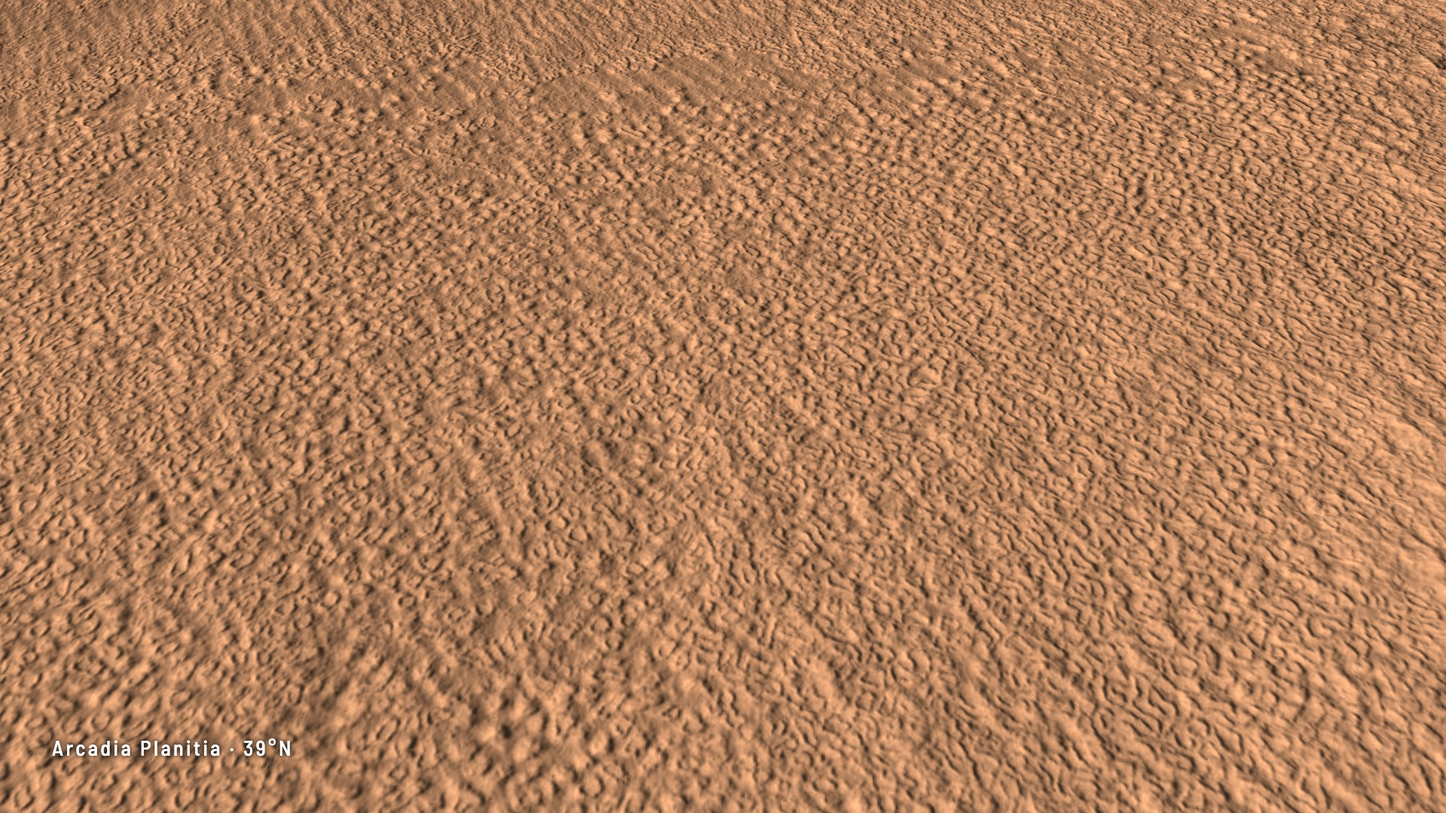
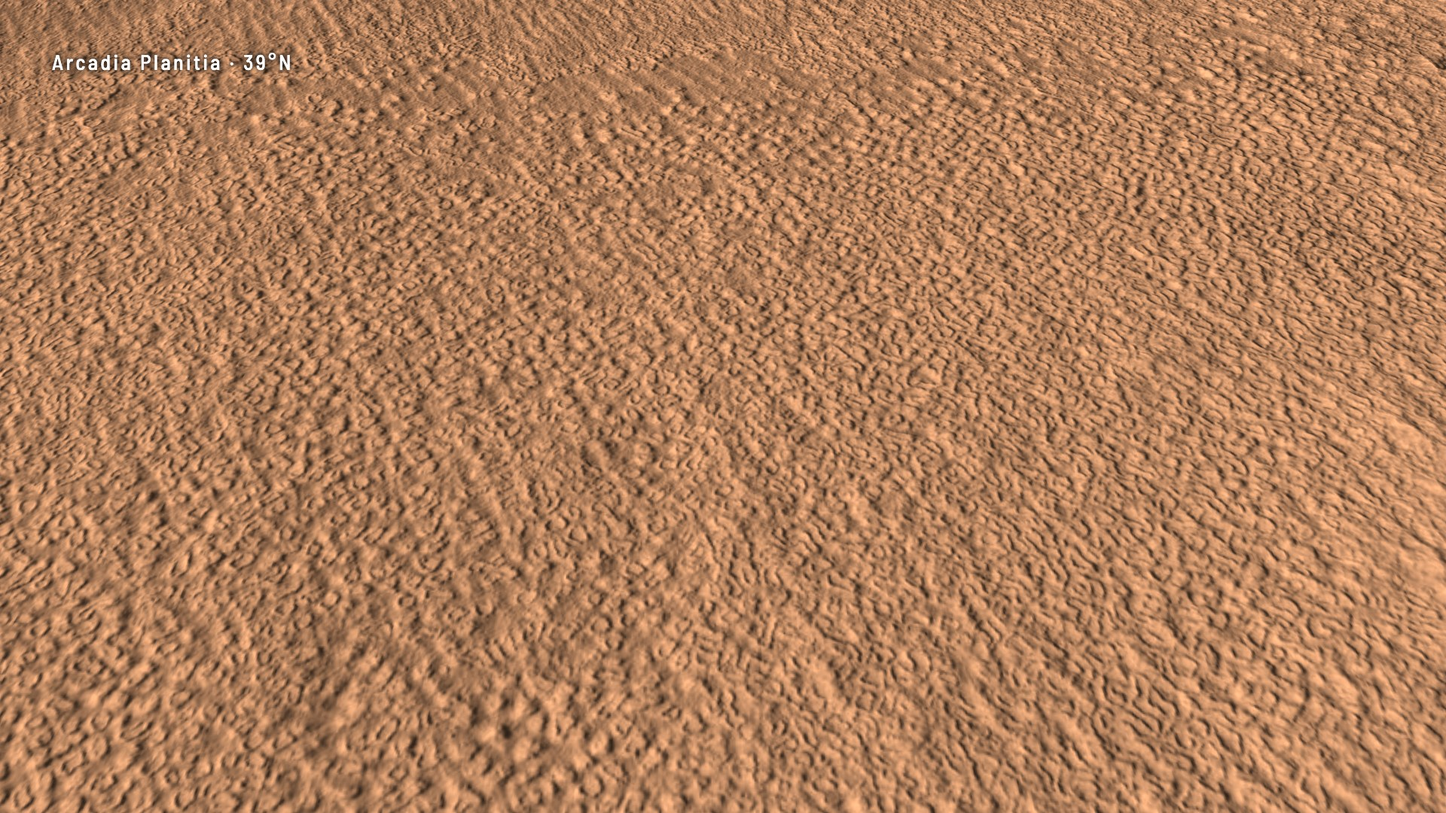
Demo film B4: route plan overview -> fast dive -> first-person navigation (Shooyunn's 3D walk look)
B4a 9-10.8 s: 2 km route overview, static plan panel (1,316 / 1,440 kcal, 263 L, 3.66 km · 197 min,
RETURN OK; bars fill in 0.6 s). B4b 10.8-11.5 s: dive to the base with FOV 40->64, radial speed lines and
a ~0.15 s white flash; the dive ends exactly on the first first-person pose. B4c 11.5-15 s: first-person
walk along leg 1 (base -> T4) reusing web/arcadia3d.html's sky, fog, DTM + ortho/class texture, seeded
rocks, ground guide ribbon and compass; HUD shows cumFromLegs values at the walked position.
All on-screen text stays in the top third (subtitles are burned in at the bottom). Still deterministic.

Claude-Session: https://claude.ai/code/session_01PJvXnofSRBXUdNFScTHsf8

Changed region(s): [[0.0312, 0.8861, 0.2188, 0.9472], [0.0312, 0.0611, 0.2188, 0.0917]]

diff --git a/tools/screenshot_film.py b/tools/screenshot_film.py
@@ -9,7 +9,7 @@ from playwright.sync_api import sync_playwright
 APP = Path(__file__).resolve().parents[1]
 ap = argparse.ArgumentParser()
 ap.add_argument("--url", default="http://127.0.0.1:8765")
-ap.add_argument("--times", type=float, nargs="*", default=[0.0, 1.0, 2.2, 3.5, 5.0, 6.5, 8.0, 8.9, 9.8, 11.5, 13.0, 13.8, 15.0])
+ap.add_argument("--times", type=float, nargs="*", default=[0.0, 1.0, 2.2, 3.5, 5.0, 6.5, 8.0, 8.9, 9.0, 9.8, 10.6, 10.9, 11.2, 11.5, 12.0, 13.0, 14.0, 14.4, 15.0])
 a = ap.parse_args()
 out = APP / "qa" / "film"; out.mkdir(parents=True, exist_ok=True)
 for f in out.glob("t*.jpg"):
@@ -29,7 +29,7 @@ with sync_playwright() as p:
         pg.wait_for_timeout(500)
         name = f"t{t:05.1f}".replace(".", "_") + ".jpg"
         pg.screenshot(path=str(out / name), quality=88)
-        hud = pg.evaluate("['hk','ho','sub','be'].map(id => id == 'be' ? document.getElementById(id).style.width : document.getElementById(id).textContent)")
+        hud = pg.evaluate("['tag','hk','ho','sub','be','next'].map(id => id == 'be' ? document.getElementById(id).style.width : document.getElementById(id).textContent)")
         print("saved", name, "HUD", hud if t >= 9.6 else "-")
     print("errors:", len(errors), errors[:8])
     br.close()

diff --git a/README.md b/README.md
@@ -61,7 +61,7 @@ cd web && python3 -m http.server 8000
 #      http://localhost:8000/recon.html   step 1: rover recon replay
 #      http://localhost:8000/data.html    map data and positioning checks
 ```
-**示範影片頁** `http://localhost:8000/film.html`（錄影用，首頁沒有入口）：15.0 秒程式 demo，無字幕（開場／結尾影片與字幕後製另加）：0–2.2 s 由 T1 近景拉高到整個分析區、2.2–5 s 自走車 24 趟同時探路、5–9 s 腦紋熱度圖與 12 個高分區域後俯衝 T1、9–15 s 太空人路線 T4→T2→T10→T7→T8 與 ENERGY／O₂ HUD（1,316 / 1,440 kcal、263 L、3.66 km · 197 min），最後 0.6 s 漸暗。空白鍵暫停／繼續、`R` 重播、`F` 全螢幕；`?t=秒` 從指定時間開始、`?pause=1` 停在該格、`?dpr=1` 降低解析度。逐格擷取：等 `film.ready` 後呼叫 `film.seek(t)`（畫面只由 t 決定），長度 `film.duration`（15）。截圖：`python tools/screenshot_film.py` → `qa/film/`；熱度圖／探路圖層：`python tools/film_layers.py`。
+**示範影片頁** `http://localhost:8000/film.html`（錄影用，首頁沒有入口）：15.0 秒程式 demo，無字幕（開場／結尾影片與字幕後製另加，畫面文字都在上方）：0–2.2 s 由 T1 近景拉高到整個分析區、2.2–5 s 自走車 24 趟同時探路、5–9 s 腦紋熱度圖與 12 個高分區域後俯衝 T1、9–10.8 s 俯瞰太空人路線 T4→T2→T10→T7→T8 與計畫總結（1,316 / 1,440 kcal、263 L、3.66 km · 197 min、RETURN OK）、10.8–11.5 s 往基地俯衝並閃白切換、11.5–15 s 第一人稱實景導航（沿用 `arcadia3d.html` 的天空、地形、岩石與導引帶，HUD 為實際走到位置的累積值），最後 0.6 s 漸暗。空白鍵暫停／繼續、`R` 重播、`F` 全螢幕；`?t=秒` 從指定時間開始、`?pause=1` 停在該格、`?dpr=1` 降低解析度。逐格擷取：等 `film.ready` 後呼叫 `film.seek(t)`（畫面只由 t 決定），長度 `film.duration`（15）。截圖：`python tools/screenshot_film.py` → `qa/film/`；熱度圖／探路圖層：`python tools/film_layers.py`。
 
 No build step and no backend: any static file server works (`file://` cannot load the JSON).
 
